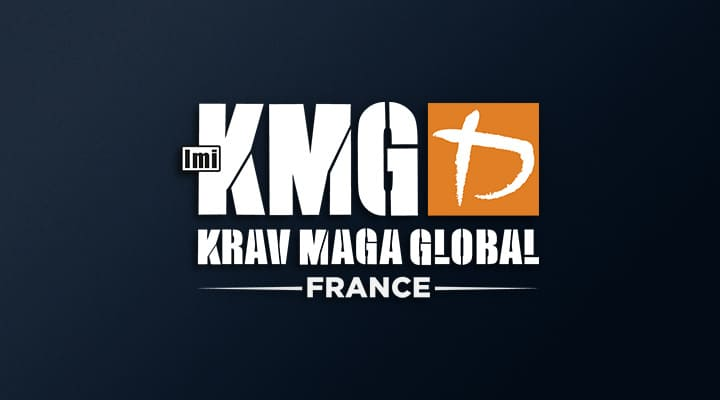
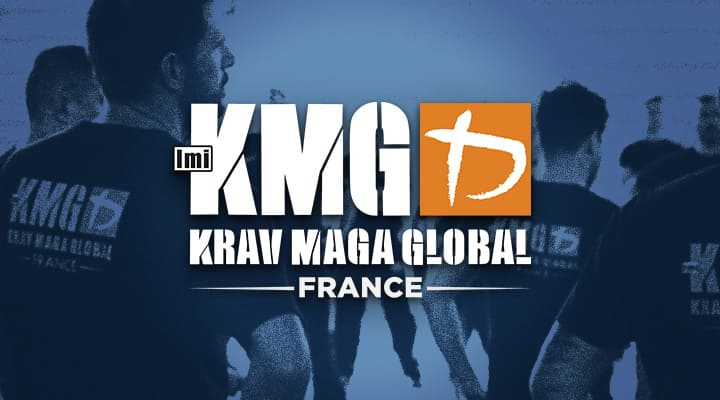
added dynamic page title, updated works, added work images transitions

diff --git a/src/pages/works/ASDD.jsx b/src/pages/works/ASDD.jsx
@@ -1,7 +1,113 @@
+import { ExternalLinkIcon } from "@chakra-ui/icons";
+import {
+  List,
+  ListItem,
+  Center,
+  Heading,
+  Tag,
+  Icon,
+  Link,
+  Text,
+} from "@chakra-ui/react";
+import { HiLightningBolt, HiLightBulb, HiStar } from "react-icons/hi";
+import { Meta, WorkImage } from "../../components/Custom";
+import Section from "../../components/Section";
 import Work from "../../components/Work";
 
 const Asdd = () => {
-  return <Work>ASDD</Work>;
+  return (
+    <Work>
+      <WorkImage src={"/images/works/thumb_ASDD.jpg"} alt={"thumb_ASDD"}/>
+      <Text variant={"section-paragraph"}>
+        Depuis 2019 je dirige l'ASDD - Krav Maga Décines, association loi 1901,
+        accompagné d'une équipe de bénévoles et du président. J'insuffle ma
+        vision et veille au bon développement du club. Je suis notamment
+        responsable de la transition vers le numérique pour laquelle j'ai mis en
+        place l'ensemble des supports et services. Nous pouvons nous féliciter
+        d'une belle croissance qui se maintient année après année.
+      </Text>
+      <List ml={4} my={4}>
+        <ListItem>
+          <Center justifyContent={"start"}>
+            <Meta>Website</Meta>
+            <Link href="https://kravmagadecines.fr/" isExternal>
+              https://kravmagadecines.fr/
+              <ExternalLinkIcon mx={1} boxSize={3} />
+            </Link>
+          </Center>
+        </ListItem>
+        <ListItem>
+          <Center justifyContent={"start"}>
+            <Meta>Catégorie</Meta>
+            <Text>
+              Leadership, Gestion, Développement, Création de contenu, Design
+              Graphique
+            </Text>
+          </Center>
+        </ListItem>
+        <ListItem>
+          <Center justifyContent={"start"}>
+            <Meta>Outils</Meta>
+            <Text> React, Framer Motion, Swipeable, Vite</Text>
+          </Center>
+        </ListItem>
+      </List>
+      <Section delay={0.6}>
+        <Heading as="h3" variant="section-title">
+          Perspective
+        </Heading>
+        <List spacing={4}>
+          <ListItem>
+            <Text>
+              <Tag
+                size="lg"
+                colorScheme="red"
+                borderRadius="full"
+                mr={1}
+                sx={{ verticalAlign: "baseline" }}
+              >
+                <Icon as={HiLightningBolt} mr={1} boxSize={4} />
+                Challenge
+              </Tag>
+              Développer un application capable de remplir les besoins du client
+            </Text>
+          </ListItem>
+          <ListItem>
+            <Text>
+              <Tag
+                size="lg"
+                colorScheme="blue"
+                borderRadius="full"
+                mr={1}
+                sx={{ verticalAlign: "baseline" }}
+              >
+                <Icon as={HiLightBulb} mr={1} boxSize={4} />
+                Découverte
+              </Tag>
+              React et son écosystème, Firebase pour la gestion de base de
+              données et l&apos;authentification
+            </Text>
+          </ListItem>
+          <ListItem>
+            <Text>
+              <Tag
+                size="lg"
+                colorScheme="green"
+                borderRadius="full"
+                mr={1}
+                sx={{ verticalAlign: "baseline" }}
+              >
+                <Icon as={HiStar} mr={1} boxSize={4} />
+                Points Forts
+              </Tag>
+              Projet Impactant / Secteur Santé, Bien-être / Opportunité
+              d&apos;Apprentissage / Contraintes Réelles / Liberté Technologique
+            </Text>
+          </ListItem>
+        </List>
+      </Section>
+    </Work>
+  );
 };
 
 export default Asdd;

diff --git a/src/pages/works/Pyralim.jsx b/src/pages/works/Pyralim.jsx
@@ -5,11 +5,6 @@ import {
   Link,
   List,
   ListItem,
-  Stat,
-  StatGroup,
-  StatHelpText,
-  StatLabel,
-  StatNumber,
   Tab,
   TabList,
   TabPanel,
@@ -37,6 +32,10 @@ import CollapseElement from "../../components/CollapseElement";
 const Pyralim = () => {
   return (
     <Work>
+      <WorkImage
+        src={"/images/works/thumb_pyralim.jpg"}
+        alt={"thumb_pyralim"}
+      />
       <Text variant={"section-paragraph"}>
         Application permettant de réaliser un bilan alimentaire rapide pour
         prendre conscience de ses habitudes de consommation. Simple et ludique
@@ -126,8 +125,8 @@ const Pyralim = () => {
                 <Icon as={HiStar} mr={1} boxSize={4} />
                 Points Forts
               </Tag>
-              Projet Utile / Opportunité d&apos;Apprentissage / Contraintes
-              Réelles / Liberté Technologique
+              Projet Impactant / Secteur Santé, Bien-être / Opportunité
+              d&apos;Apprentissage / Contraintes Réelles / Liberté Technologique
             </Text>
           </ListItem>
         </List>
@@ -153,7 +152,7 @@ const Pyralim = () => {
             colorScheme="green"
             rightIcon={<VscArrowRight fontSize={"1.1rem"} />}
           >
-            Tester la démo
+            Tester l&apos;appli
           </Button>
         </Center>
       </Section>
@@ -287,13 +286,13 @@ const Pyralim = () => {
           <TabPanels>
             <TabPanel>
               <WorkImage
-                src={"/images/code/pyralim_onTap.png"}
+                src={"/images/works/pyralim_onTap.png"}
                 alt={"code pyralim_onTap"}
               />
             </TabPanel>
             <TabPanel>
               <WorkImage
-                src={"/images/code/pyralim_onPan.png"}
+                src={"/images/works/pyralim_onPan.png"}
                 alt={"code pyralim_onTap"}
               />
             </TabPanel>

diff --git a/src/pages/works/KMGFrance.jsx b/src/pages/works/KMGFrance.jsx
@@ -23,7 +23,7 @@ import {
   Text,
   useColorModeValue,
 } from "@chakra-ui/react";
-import { WorkImage, Meta } from "../../components/Custom";
+import { WorkImage, Meta, Date } from "../../components/Custom";
 import { ExternalLinkIcon } from "@chakra-ui/icons";
 import Section from "../../components/Section";
 import { HiLightBulb, HiLightningBolt, HiStar } from "react-icons/hi";
@@ -31,6 +31,8 @@ import { HiLightBulb, HiLightningBolt, HiStar } from "react-icons/hi";
 const KMGFrance = () => {
   return (
     <Work>
+      <WorkImage src={"/images/works/thumb_KMG.jpg"} alt={"thumb_KMG"} />
+      <Date>2019 -{""}</Date>
       <Text variant={"section-paragraph"}>
         Afin d&apos;atteindre une nouvelle cible Emmanuel Ayache, directeur de
         Krav Maga Global France (KMG France) à développer une stratégie de
@@ -39,6 +41,12 @@ const KMGFrance = () => {
         riche et variée.
       </Text>
       <List ml={4} my={4}>
+        <ListItem>
+          <Center justifyContent={"start"}>
+            <Meta>Date</Meta>
+            2019 - Maintenant
+          </Center>
+        </ListItem>
         <ListItem>
           <Center justifyContent={"start"}>
             <Meta>YouTube</Meta>
@@ -51,6 +59,7 @@ const KMGFrance = () => {
             </Link>
           </Center>
         </ListItem>
+
         <ListItem>
           <Center justifyContent={"start"}>
             <Meta>Website</Meta>

diff --git a/src/components/layout/MainLayout.jsx b/src/components/layout/MainLayout.jsx
@@ -1,15 +1,30 @@
 import { Box, Container } from "@chakra-ui/react";
-// import { motion } from "framer-motion";
 import NavBar from "../NavBar";
 import Footer from "../Footer";
-import { Outlet } from "react-router-dom";
+import { Outlet, useLocation } from "react-router-dom";
 import MainAnim from "../MainAnim";
-import ScrollToTop from "../ScrollToTop";
+import { useEffect } from "react";
 
 const MainLayout = () => {
+  // Update page Title on page change
+  const location = useLocation();
+  const mainTitle = "Quentin Berger";
+
+  useEffect(() => {
+    if (location.pathname !== "/") {
+      let currentTitle = "";
+      const title = location.pathname.split("/");
+      currentTitle = title[title.length - 1];
+      console.log(title, currentTitle);
+      document.title =
+        currentTitle.slice(0, 1).toUpperCase().concat(currentTitle.slice(1)) +
+        " | " +
+        mainTitle;
+    } else document.title = mainTitle;
+  }, [location]);
+
   return (
     <Box pb={8}>
-      {/* <ScrollToTop /> */}
       <NavBar />
       <Container maxW="container.sm" pt={20}>
         <MainAnim />

diff --git a/src/components/Custom.jsx b/src/components/Custom.jsx
@@ -1,11 +1,32 @@
+import { useRef } from "react";
+import { useInView } from "framer-motion";
 import { Badge, Image } from "@chakra-ui/react";
 
-export const WorkImage = ({ src, alt }) => (
-  <Image borderRadius="lg" w="full" src={src} alt={alt} mb={4} />
-);
+export const WorkImage = ({ src, alt }) => {
+  const ref = useRef(null);
+  const isInView = useInView(ref, { once: true });
+
+  return (
+    <Image
+      ref={ref}
+      borderRadius="lg"
+      w="full"
+      src={src}
+      alt={alt}
+      mb={4}
+      style={{
+        opacity: isInView ? 1 : 0,
+        transition: "opacity 500ms ease-in",
+      }}
+    />
+  );
+};
 
 export const Meta = ({ children }) => (
   <Badge colorScheme="green" mr={2}>
     {children}
   </Badge>
 );
+
+export const Date = ({ children }) =>
+  children && <Badge colorScheme="gray">{children}</Badge>;

diff --git a/src/pages/Works.jsx b/src/pages/Works.jsx
@@ -6,13 +6,15 @@ import Section from "../components/Section";
 // img thumb import
 
 import thumbPyralim from "/images/works/thumb_pyralim.jpg";
-import thumbNatecia from "/images/works/natecia_copil-IHAB_thumb.jpg";
+import thumbNatecia from "/images/works/thumb_natecia.jpg";
 import thumbKMG from "/images/works/thumb_KMG.jpg";
 import thumbASDD from "/images/works/thumb_ASDD.jpg";
+import ScrollToTop from "../components/ScrollToTop";
 
 export default function Works() {
   return (
     <Layout>
+      <ScrollToTop />
       <SimpleGrid columns={[1, 1, 2]} gap={6}>
         <Section delay={0.1}>
           <WorkGridItem id="Pyralim" title="Pyralim" thumbnail={thumbPyralim}>

diff --git a/src/App.jsx b/src/App.jsx
@@ -1,5 +1,9 @@
 import "./App.css";
-import { createBrowserRouter, RouterProvider } from "react-router-dom";
+import {
+  createBrowserRouter,
+  RouterProvider,
+  useLocation,
+} from "react-router-dom";
 import MainLayout from "./components/layout/MainLayout";
 
 // Pages for routing
@@ -9,6 +13,7 @@ import Works from "./pages/Works";
 // import Work from "./components/Work";
 import { Pyralim, Natecia, KMGFrance, Asdd } from "./pages/works/worksIndex";
 import { AnimatePresence } from "framer-motion";
+import { useEffect } from "react";
 
 const router = createBrowserRouter([
   {

diff --git a/src/components/layout/Article.jsx b/src/components/layout/Article.jsx
@@ -5,7 +5,7 @@ import { Container } from "@chakra-ui/react";
 const variants = {
   hidden: { opacity: 0, x: 0, y: 40 },
   enter: { opacity: 1, x: 0, y: 0 },
-  exit: { opacity: 0, x: -0, y: 40 },
+  exit: { opacity: 0, x: 0, y: 40 },
 };
 
 const Layout = ({ children }) => {
@@ -17,7 +17,7 @@ const Layout = ({ children }) => {
         animate="enter"
         exit="exit"
         variants={variants}
-        transition={{ duration: 0.8, type: "spring" }}
+        transition={{ duration: 0.6, type: "easeInOut" }}
         style={{ position: "relative" }}
       >
         {children}

diff --git a/src/pages/works/Natecia.jsx b/src/pages/works/Natecia.jsx
@@ -29,6 +29,10 @@ import { HiLightBulb, HiLightningBolt, HiStar } from "react-icons/hi";
 const Natecia = () => {
   return (
     <Work>
+      <WorkImage
+        src={"/images/works/thumb_natecia.jpg"}
+        alt={"thumb_natecia"}
+      />
       <Text variant={"section-paragraph"}>
         Dans l&apos;objectif d&apos;obtenir le{" "}
         <Link href="https://www.i-hab.fr/" isExternal>

diff --git a/src/components/Section.jsx b/src/components/Section.jsx
@@ -11,6 +11,7 @@ const Section = ({ children, delay = 0 }) => (
   <StyledDiv
     initial={{ y: 10, opacity: 0 }}
     animate={{ y: 0, opacity: 1 }}
+    // @ts-ignore
     transition={{ duration: 0.8, delay: `${delay}` }}
     mb={8}
   >

diff --git a/src/components/CustomBreadCrumbs.jsx b/src/components/CustomBreadCrumbs.jsx
@@ -36,6 +36,7 @@ const CustomBreadCrumbs = () => {
   return (
     <UiLayout>
       <Breadcrumb
+        mb={2}
         separator={<ChevronRightIcon color="gray.500" />}
         css={{ textTransform: "capitalize" }}
       >

diff --git a/src/components/layout/UiLayout.jsx b/src/components/layout/UiLayout.jsx
@@ -1,4 +1,4 @@
-import { AnimatePresence, motion } from "framer-motion";
+import { motion } from "framer-motion";
 
 const variants = {
   hidden: { opacity: 0, x: -60, y: 0 },
